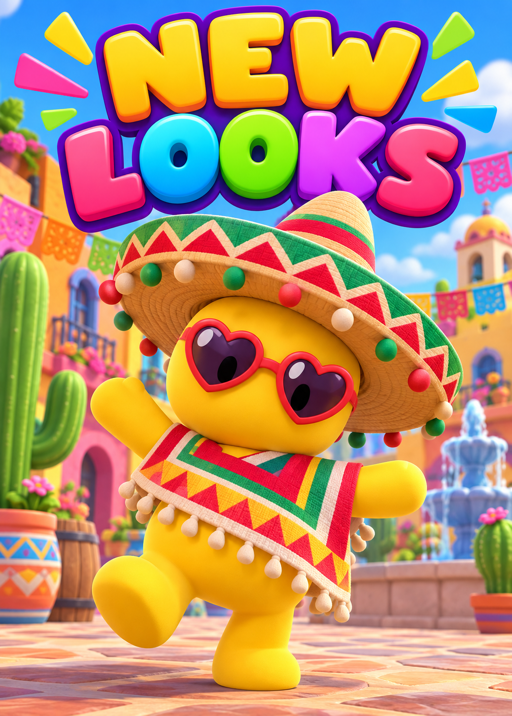
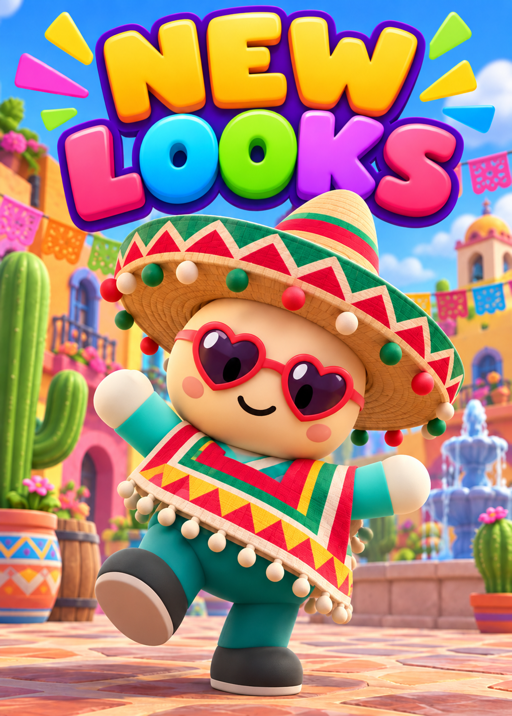
Complete Wobblers character paintings and add cover
Verified exact dimensions, opacity, poster text, character-reference match and browser loading through game manifest.

diff --git a/wobblers/image-requests.md b/wobblers/image-requests.md
@@ -1,6 +1,6 @@
 # Wobblers image requests
 
-**Status: rounds 12, 13 remain OPEN; delivered rows are in `image-requests-history.md`.**
+**Status: rounds 13 remain OPEN; delivered rows are in `image-requests-history.md`.**
 
 ## How delivery works
 
@@ -48,24 +48,6 @@ to the top of `image-requests-history.md`.
   frame's proportions).
 - **Reference sheets** (`assets/reference/`): any 16:9 around 1920 × 1080.
 
-## OPEN round 12 — paintings with characters in our real character style (6 posters + 1 cover)
-
-The owner chose the default look (chunky toy, the head as in the game since 2026-10-26);
-`assets/reference/ref_character_sheet.png` is rendered from it: use it as the character
-reference for every image here. (The in-game "toy style" option, with coloured skin, is
-not what these pictures show.)
-
-These replace delivered images whose characters were drawn yellow and featureless
-(not our game). Keep each picture's subject, layout and size; only the characters
-change. `painting_island.png` is also the Wobblers cover picture in the mini game
-library, so it matters most. Same paths and sizes, opaque, filling the frame.
-
-| File (`assets/…`) | Size | Prompt |
-|---|---|---|
-| `posters/wanted_pete.png` | 512 × 716 | Matching WANTED poster: **WANTED** at the top, **WOBBLY PETE** / **REWARD 100 COINS** below; a Wobbler outlaw in an orange shirt and black cowboy hat with a red bandana over the lower face, holding a toy water pistol, in a desert town. Peach-skinned round head with printed cartoon eyes, white mitten hands, dark shoes. |
-| `posters/clothes_fashion.png` | 512 × 716 | Bright fashion-shop poster with the words **NEW LOOKS** in big bubbly letters at the top; a Wobbler in a teal shirt striking a happy pose in a colourful sombrero and striped poncho with heart sunglasses, on a sunny plaza. Peach-skinned round head, darker trousers, white mitten hands. |
-| `posters/homes_cottage.png` | 768 × 528 | Estate-agent sign poster: a red **FOR SALE** board in front of a cosy cream cottage with a red roof, garden flowers and a white picket fence by the sea; a Wobbler in a purple shirt with a straw hat waving in front. Peach-skinned round head with a printed smiling face, darker trousers, white mitten hands. |
-| `ui/cover.png` | 1600 × 900 | NEW. Key art / cover for Wobblers (game libraries and share images): a sunny toy-like island town street with a ferris wheel and the sea behind; in front, five Wobblers in different shirt colours (red, blue, green, yellow, pink) having fun — one mid-jump, one riding a bouncy ball, two carrying a box together, one waving from a little red car. Peach-skinned round heads with printed cartoon faces, darker trousers, white mitten hands, dark shoes, a couple of hats. Leave the top fifth calm sky for a logo; no text. |
 
 ## OPEN round 13 — closed-eye (blink) frames for the painted faces (8 faces)
 

diff --git a/wobblers/image-requests-history.md b/wobblers/image-requests-history.md
@@ -14,6 +14,11 @@ in `assets/originals/pre-round12/`. Checked dimensions, alpha and browser loadin
 | `posters/portrait_family.png` | 512 × 666 | A framed, warm family portrait painting of three Wobblers hugging and waving against a sunny orange backdrop: a tall one in a yellow shirt with a black top hat and red bow tie, one in a pink shirt with a purple bow on the head, a small one in a blue shirt; peach-skinned round heads with happy printed cartoon faces, darker trousers, white mitten hands. |
 | `posters/wanted_kid.png` | 512 × 716 | Old west WANTED poster on aged paper with torn edges: the words **WANTED** at the top and **CACTUS KID** / **REWARD 50 COINS** below; in the picture a cheeky Wobbler in a green shirt with a brown cowboy hat and red neckerchief, winking and hugging a cactus in a desert town. Peach-skinned round head with a printed cartoon face, white mitten hands, dark shoes. |
 
+| `posters/wanted_pete.png` | 512 × 716 | Matching WANTED poster: **WANTED** at the top, **WOBBLY PETE** / **REWARD 100 COINS** below; a Wobbler outlaw in an orange shirt and black cowboy hat with a red bandana over the lower face, holding a toy water pistol, in a desert town. Peach-skinned round head with printed cartoon eyes, white mitten hands, dark shoes. |
+| `posters/clothes_fashion.png` | 512 × 716 | Bright fashion-shop poster with the words **NEW LOOKS** in big bubbly letters at the top; a Wobbler in a teal shirt striking a happy pose in a colourful sombrero and striped poncho with heart sunglasses, on a sunny plaza. Peach-skinned round head, darker trousers, white mitten hands. |
+| `posters/homes_cottage.png` | 768 × 528 | Estate-agent sign poster: a red **FOR SALE** board in front of a cosy cream cottage with a red roof, garden flowers and a white picket fence by the sea; a Wobbler in a purple shirt with a straw hat waving in front. Peach-skinned round head with a printed smiling face, darker trousers, white mitten hands. |
+| `ui/cover.png` | 1600 × 900 | NEW. Key art / cover for Wobblers (game libraries and share images): a sunny toy-like island town street with a ferris wheel and the sea behind; in front, five Wobblers in different shirt colours (red, blue, green, yellow, pink) having fun — one mid-jump, one riding a bouncy ball, two carrying a box together, one waving from a little red car. Peach-skinned round heads with printed cartoon faces, darker trousers, white mitten hands, dark shoes, a couple of hats. Leave the top fifth calm sky for a logo; no text. |
+
 ## Delivered round 11 — Stratford Fall Fair, arcade cabinets, gadgets, phone booths (22 signs)
 
 The game draws a procedural stand-in for each until the art arrives. The fair is
